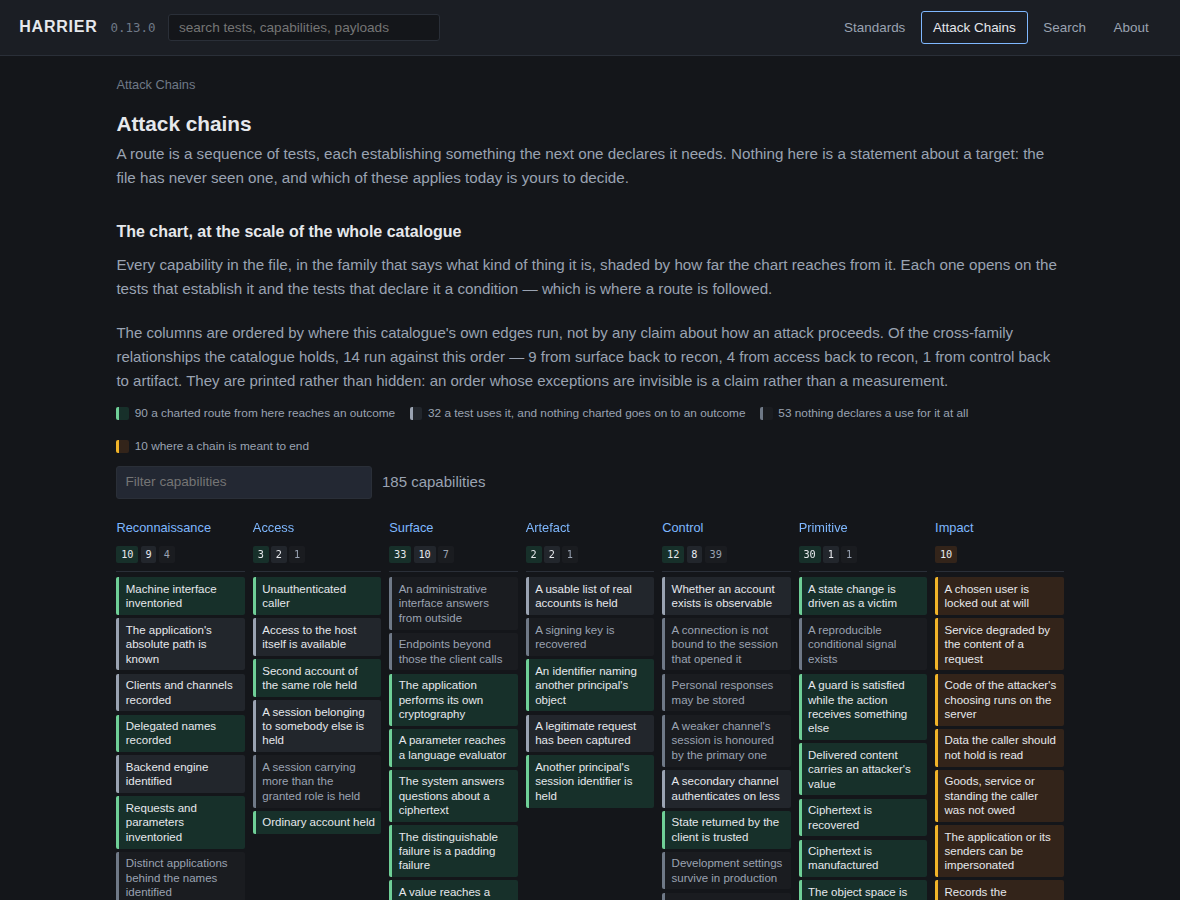
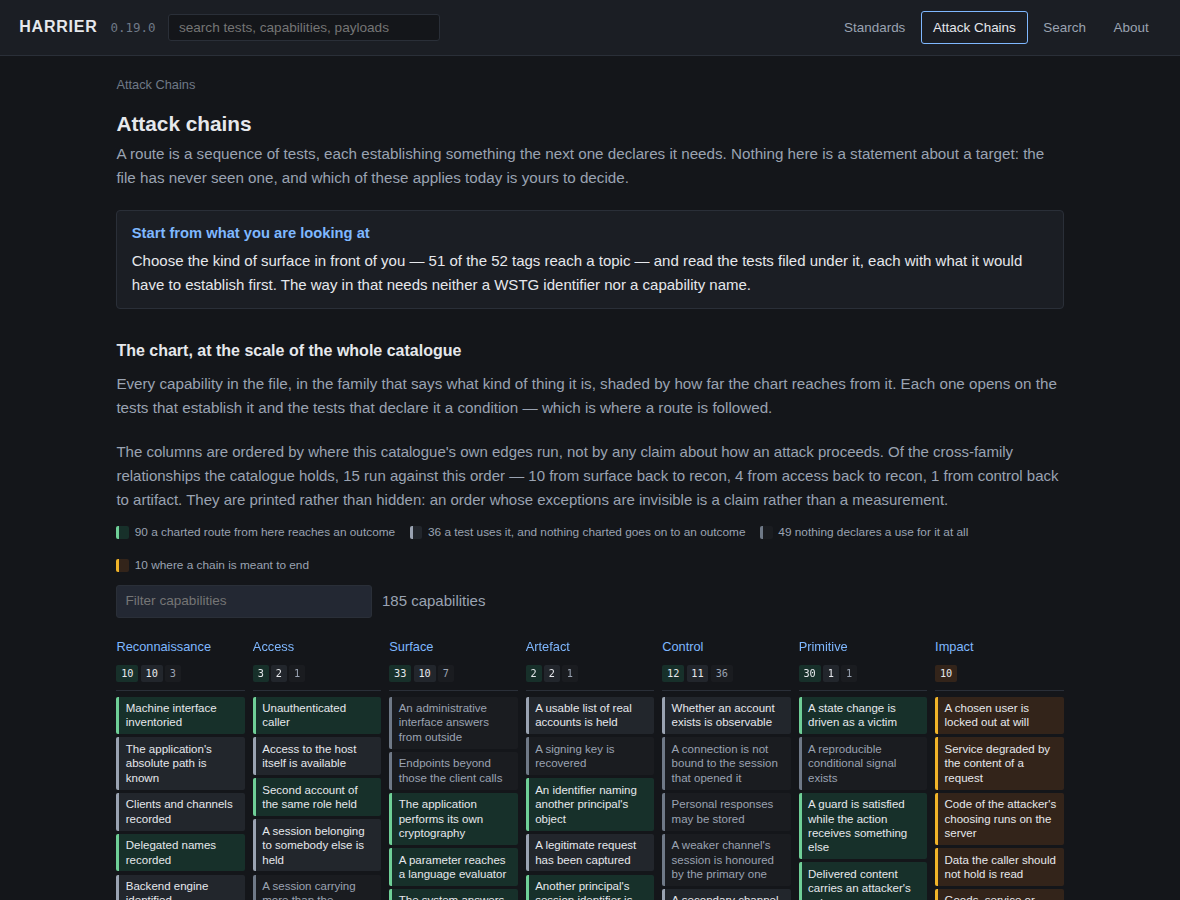
docs: show the interface as it is, and correct four claims that had gone stale
The screenshots were taken at 0.13.0. Two of the three were wrong about
the product rather than merely dated:

- The decomposition shot is the README's first image and showed every
  HRR-INJ-01 unit as OUTLINE. All ten have been written to full depth
  since, so the picture meant to show what the product looks like showed
  the flagship topic entirely unwritten -- while the notice four screens
  above it said 36 units are written in full. A reader believes the
  picture.
- The chain map shot predates the context selector the same page now
  opens with, which the surrounding text describes, and carried five
  figures that have moved: 53 unused capabilities where there are now
  49, 32 used-but-going-nowhere where there are 36, and three column
  tallies.

The Test Unit shot differs only in the version chip and is retaken for
consistency.

Four prose claims were wrong, three of them found while checking the
pictures against the pages:

- "the fourteen that run the other way" -- the page says 15, and the new
  screenshot beside that sentence shows 15. The figure was asserted
  against the page and never against the README, which is how the two
  drifted.
- "The one topic written to full depth is path traversal" -- seven
  topics are now entirely at full depth, and the same README says three
  chains run end to end forty lines further down. The sentence no longer
  claims to be the only one.
- "Four of the five capabilities in that chain" -- the chain establishes
[…]

Changed region(s): [[0.0915, 0.2489, 0.9153, 1.0]]

diff --git a/tests/test_artefact_ui.py b/tests/test_artefact_ui.py
@@ -374,6 +374,35 @@ class TheGeneralGraph(unittest.TestCase):
             readme,
         )
 
+    def test_the_readme_counts_the_journey_chain_from_the_catalogue(self):
+        """It said four of five where the catalogue holds 3 of 4, and had said
+        it since before the outcome layer gave one of them a consumer.
+
+        The figure is about the walked chain rather than the whole graph, so it
+        is derived the way the sentence means it: the capabilities those four
+        tests establish, and how many of them nothing outside the chain declares
+        -- as a prerequisite or as a motivation, since either is a declared use.
+        """
+        walk = ["HRR-RES-01-PROBE", "HRR-RES-01-READ",
+                "HRR-RES-01-EXEC", "HRR-OUT-02-IMPACT"]
+        established = []
+        for uid in walk:
+            for fact in self.data["units"][uid].get("yields") or []:
+                if fact not in established:
+                    established.append(fact)
+
+        def used_elsewhere(fact):
+            declared = (self.data["requiredBy"].get(fact) or []) + \
+                (self.data["motivates"].get(fact) or [])
+            return [uid for uid in declared if uid not in walk]
+
+        unused = [f for f in established if not used_elsewhere(f)]
+        readme = " ".join((REPO_ROOT / "README.md").read_text(encoding="utf-8").split())
+        self.assertIn(
+            f"{len(unused)} of the {len(established)} capabilities that chain establishes",
+            readme,
+        )
+
     def test_the_readme_states_the_real_number_of_derived_edges(self):
         edges = sum(len(e["out"]) for e in self.data["chain"].values())
         readme = " ".join((REPO_ROOT / "README.md").read_text(encoding="utf-8").split())
@@ -1873,6 +1902,20 @@ class TheChainMapIsTheWholeCatalogueAtOnce(unittest.TestCase):
                 continue
             if order.index(edge["from"]) > order.index(edge["to"]):
                 self.assertIn((edge["from"], edge["to"]), reported)
+
+    def test_the_readme_reports_the_same_count_the_page_does(self):
+        """The page's copy of this figure was asserted and the README's was not,
+        so the two drifted: the page said 15 while the README still said
+        fourteen, and the screenshot beside that sentence showed 15.
+
+        Spelled as a numeral in the README for the same reason every other
+        figure there is -- a number written as a word is a number the suite
+        cannot check, which is exactly how this one went stale.
+        """
+        back = run_in_node("return H.chainBackEdges(D);", self.data)
+        total = sum(e["units"] for e in back)
+        readme = " ".join((REPO_ROOT / "README.md").read_text(encoding="utf-8").split())
+        self.assertIn(f"the {total} that run the other way", readme)
 
 
 class ATopicSeparatesItsStagesFromItsAlternatives(unittest.TestCase):

diff --git a/README.md b/README.md
@@ -56,13 +56,16 @@ Navigation starts at the standard, not at Harrier's own taxonomy:
 Standard → Testing group → Test case → Harrier Test Units → Potential continuations
 ```
 
-There is one deliberate way in that does not start there, because a tester
-sometimes arrives holding evidence rather than a scope sheet. A unit may record
-the literal thing that makes it worth reaching for — *parameters named `file`,
+Three deliberate ways in do not start there, because a tester sometimes arrives
+holding evidence rather than a scope sheet. **Search**: a unit may record the
+literal thing that makes it worth reaching for — *parameters named `file`,
 `path`, `page`, `tpl`* — and the search box reads that field, so typing `tpl`
-finds the traversal probe whose title and objective never mention it. The
-[chain map](#what-it-looks-like) is the other: any capability a test establishes
-opens on the tests that declare it a prerequisite.
+finds the traversal probe whose title and objective never mention it.
+**[Context](#what-it-looks-like)**: choosing the kind of surface in front of you
+lists the tests the catalogue files under it, which is the way in that needs
+neither an identifier nor a capability name. **[The chain
+map](#what-it-looks-like)**: any capability a test establishes opens on the tests
+that declare it a prerequisite.
 
 WSTG is the first standard supported, and the structure is deliberately not
 specific to it. A newer WSTG revision, or another execution standard, enters at
@@ -136,7 +139,7 @@ column for the kind of thing it is, shaded by how far the chart reaches from it
 — green where a charted route arrives at an outcome, grey where it runs out.
 Each cell opens on the tests that establish it and the tests that declare it a
 prerequisite. The columns are ordered by where the catalogue's own edges run,
-and the fourteen that run the other way are named on the page:
+and the 15 that run the other way are named on the page:
 
 ![The chain map: every capability in a column for its family, shaded by how far the chart reaches from it](docs/assets/attack-chains.png)
 
@@ -241,8 +244,8 @@ HRR-RES-01-READ  Confirmed read outside the intended root
 
 ## A real journey
 
-The one topic written to full depth is path traversal, under `WSTG-ATHZ-01`.
-From the standard down:
+Path traversal, under `WSTG-ATHZ-01`, was the first topic written to full depth
+and is the shortest to read end to end. From the standard down:
 
 1. **Authorization Testing → `WSTG-ATHZ-01`**, "Testing Directory Traversal File
    Include". Harrier decomposes it into five Test Units.
@@ -266,10 +269,10 @@ not seen the host and cannot say what the code would reach on it; what it can sa
 is that reaching this far means the question is now worth asking, and which
 capability made it worth asking.
 
-Four of the five capabilities in that chain are still declared by nothing beyond
-it — the outcome layer covers what the catalogue's primitives obtain, not every
-control it records. Where a chain still stops early, the page says so rather than
-drawing an edge nobody wrote.
+3 of the 4 capabilities that chain establishes are still declared by nothing
+beyond it — the outcome layer covers what the catalogue's primitives obtain, not
+every control it records. Where a chain still stops early, the page says so
+rather than drawing an edge nobody wrote.
 
 ## What exists today, and what does not
 
